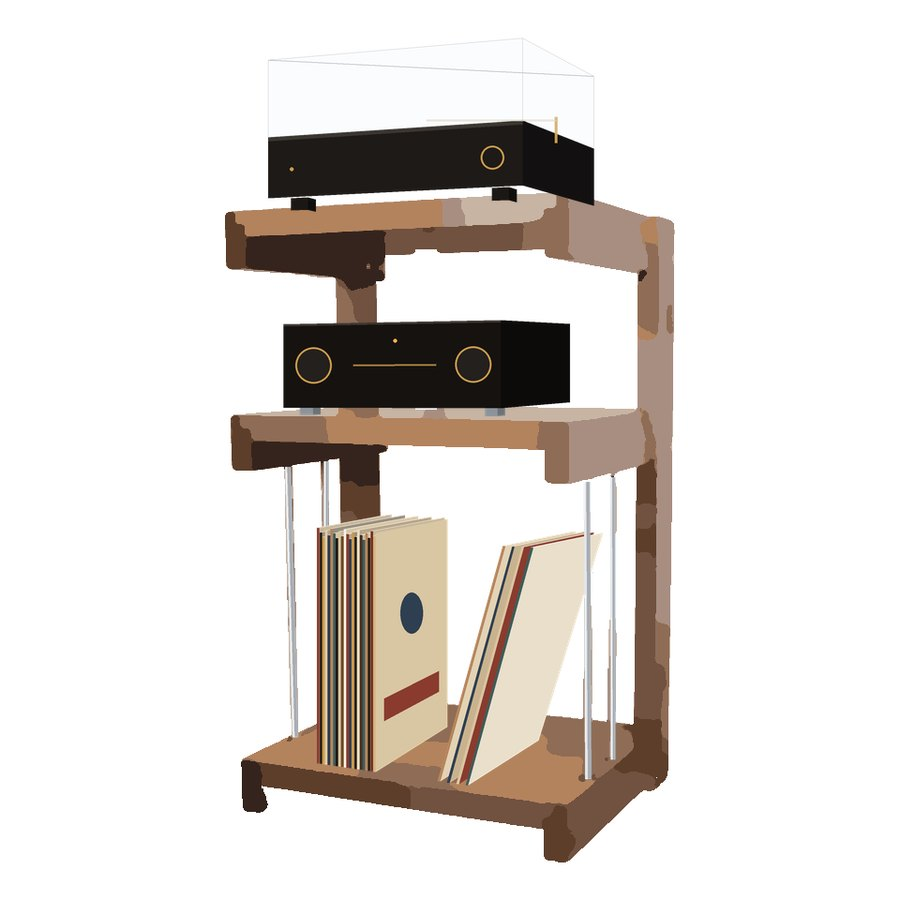
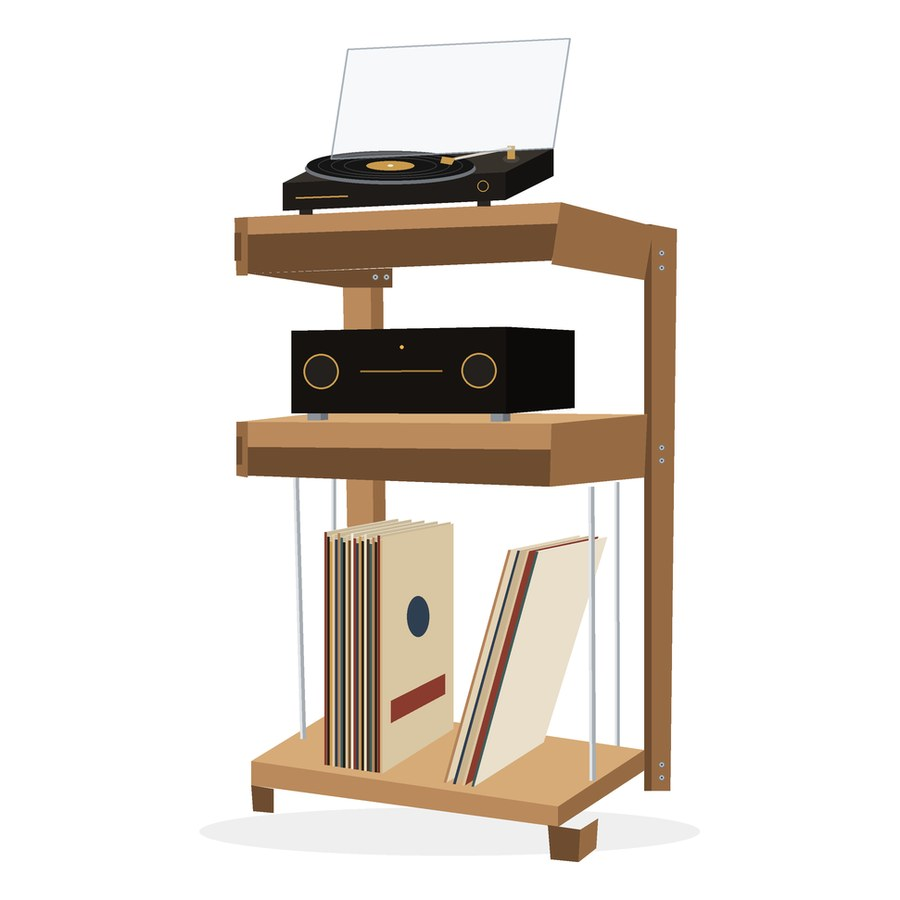
Vinyl: illustrazione vettoriale pulita, legno a tinta unita, giradischi leggibile
Forme ricalcate dagli spigoli della foto reale, legno in quattro toni pieni;
giradischi stilizzato appoggiato sul piano con piatto, disco, braccio e
coperchio aperto.

Claude-Session: https://claude.ai/code/session_015wvKsictn1Z6RtpeGcB9hV

Changed region(s): [[0.2489, 0.1244, 0.7778, 0.9644], [0.6222, 0.0622, 0.6533, 0.0933], [0.3733, 0.0622, 0.4044, 0.0933]]

diff --git a/extrasound-vinyl.html b/extrasound-vinyl.html
@@ -46,7 +46,7 @@
   <p class="sub">Tre livelli pensati sul peso e sulle misure degli apparecchi.</p>
   <div class="duo" style="margin-bottom:0;align-items:center">
     <div class="cab room" id="cab">
-      <img id="cabimg" src="images/vinyl-disegno-faggio.jpg" alt="Illustrazione del mobile Extrasound Vinyl ricalcata dal mobile reale: giradischi sul piano superiore, amplificatore sul ripiano centrale, vinili sul ripiano basso tra quattro tondini in acciaio" width="900" height="900">
+      <img id="cabimg" src="images/vinyl-disegno-faggio.jpg?v=2" alt="Illustrazione del mobile Extrasound Vinyl ricalcata dal mobile reale: giradischi sul piano superiore, amplificatore sul ripiano centrale, vinili sul ripiano basso tra quattro tondini in acciaio" width="900" height="900">
     </div>
     <div>
   <div class="levels">
@@ -92,6 +92,6 @@
 <footer><div class="wrap">© <span class="yr"></span> Fabrizio Berlati</div></footer>
 
 <script src="site.js?v=2"></script>
-<script src="prod.js?v=5"></script>
+<script src="prod.js?v=6"></script>
 </body>
 </html>

diff --git a/prod.js b/prod.js
@@ -28,7 +28,7 @@ document.querySelectorAll('.gallery').forEach(g=>{
     document.querySelectorAll('.wd').forEach(p=>p.style.fill=e.c[+p.dataset.t||0]);
     document.querySelectorAll('[data-v]').forEach(s=>{const v=s.dataset.v;s.textContent=v==='h0'?e.h[0]:v==='h1'?e.h[1]:e[v]});
     document.querySelectorAll('[data-e]').forEach(b=>b.setAttribute('aria-pressed',b.dataset.e===k));
-    const ci=document.getElementById('cabimg');if(ci)ci.src='images/vinyl-disegno-'+k+'.jpg';
+    const ci=document.getElementById('cabimg');if(ci)ci.src='images/vinyl-disegno-'+k+'.jpg?v=2';
     const hi=document.querySelector('#vhero img');if(hi)hi.src=k==='noce'?'images/vinyl-noce-hifi.jpg':'images/vinyl-faggio-pro.jpg';
   };
   document.querySelectorAll('[data-e]').forEach(b=>b.onclick=()=>set(b.dataset.e));
